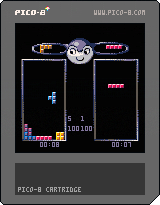
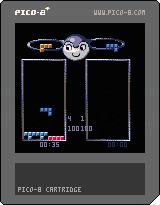
fix: preview offsets line up with board now

Changed region(s): [[0.1562, 0.1463, 0.875, 0.7317], [0.125, 0.5854, 0.4062, 0.7024], [0.25, 0.439, 0.375, 0.5854]]

diff --git a/release/tegim.js b/release/tegim.js
@@ -68,25 +68,25 @@ var _cartdat=[
 0,0,0,0,0,0,0,0,0,0,0,0,0,0,0,0,0,16,0,0,0,0,0,0,0,0,0,0,0,0,0,0,0,0,0,0,0,0,0,0,0,0,0,0,0,0,0,0,0,0,0,0,0,0,0,0,0,0,0,0,0,0,0,0,0,0,0,0,0,0,0,0,0,0,0,0,0,0,0,0,0,0,0,0,0,16,0,0,0,0,0,0,0,0,0,0,0,0,0,0,0,0,0,0,0,0,0,0,0,0,0,0,0,0,0,0,0,0,0,0,0,0,0,0,0,0,0,0,0,0,0,0,0,0,0,0,0,0,0,0,0,0,0,0,0,0,0,0,0,0,0,0,0,16,0,0,0,0,0,0,0,0,0,0,0,0,0,0,0,0,0,0,0,0,0,0,0,0,0,0,0,0,0,0,0,0,0,0,0,0,0,0,0,0,0,0,0,0,0,0,0,0,0,0,0,0,0,0,0,0,0,0,0,0,0,0,0,0,0,0,0,16,0,0,0,0,0,0,0,0,0,0,0,0,0,0,0,0,0,0,0,0,0,0,0,0,0,0,0,0,0,0,0,0,0,0,
 0,0,0,0,0,0,0,0,0,0,0,0,0,0,0,0,0,0,0,0,0,0,0,0,0,0,0,0,0,0,0,0,0,16,0,0,0,0,0,0,0,0,0,0,0,0,0,0,0,0,0,0,0,0,0,0,0,0,0,0,0,0,0,0,0,0,0,0,0,0,0,0,0,0,0,0,0,0,0,0,0,0,0,0,0,0,0,0,0,0,0,0,0,0,0,0,0,0,0,0,0,16,0,0,0,0,0,0,0,0,0,0,0,0,0,0,0,0,0,0,0,0,0,0,0,0,0,0,0,0,0,0,0,0,0,0,0,0,0,0,0,0,0,0,0,0,0,0,0,0,0,0,0,0,0,0,0,0,0,0,0,0,0,0,0,0,0,0,0,16,0,0,0,0,0,0,0,0,0,0,0,0,0,0,0,0,0,0,0,0,0,0,0,0,0,0,0,0,0,0,0,0,0,0,0,0,0,0,0,0,0,0,0,0,0,0,0,0,0,0,0,0,0,0,0,0,0,0,0,0,0,0,0,0,0,0,0,16,0,0,0,0,0,0,0,0,0,0,0,0,0,0,0,0,0,0,
 0,0,0,0,0,0,0,0,0,0,0,0,0,0,0,0,0,0,0,0,0,0,0,0,0,0,0,0,0,0,0,0,0,0,0,0,0,0,0,0,0,0,0,0,0,0,0,0,0,16,0,0,0,0,0,0,0,0,0,0,0,0,0,0,0,0,0,0,0,0,0,0,0,0,0,0,0,0,0,0,0,0,0,0,0,0,0,0,0,0,0,0,0,0,0,0,0,0,0,0,0,0,0,0,0,0,0,0,0,0,0,0,0,0,0,0,0,16,0,0,0,0,0,0,0,0,0,0,0,0,0,0,0,0,0,0,0,0,0,0,0,0,0,0,0,0,0,0,0,0,0,0,0,0,0,0,0,0,0,0,0,0,0,0,0,0,0,0,0,0,0,0,0,0,0,0,0,0,0,0,0,0,0,0,0,16,0,0,0,0,0,0,0,0,0,0,0,0,0,0,0,0,0,0,0,0,0,0,0,0,0,0,0,0,0,0,0,0,0,0,0,0,0,0,0,0,0,0,0,0,0,0,0,0,0,0,0,0,0,0,0,0,0,0,0,0,0,0,0,0,0,0,0,16,0,0,
-0,112,120,97,74,225,18,38,103,191,194,253,103,191,194,241,47,16,237,158,29,53,69,117,192,5,43,93,16,93,255,8,215,7,233,241,121,22,212,117,245,10,143,208,71,241,109,69,24,167,177,53,194,243,223,96,226,164,179,238,105,155,179,142,50,193,78,116,82,80,60,194,204,64,31,61,195,202,76,49,180,144,101,58,2,91,225,76,184,37,21,82,118,89,17,73,7,188,133,25,194,160,208,10,169,172,100,134,98,96,99,227,53,146,168,113,209,101,94,58,205,17,85,37,16,220,20,153,181,147,164,240,82,36,16,46,5,241,255,255,25,219,167,138,68,201,241,24,162,228,71,37,77,158,64,148,252,71,231,66,129,240,41,136,255,255,79,81,242,163,85,74,143,28,57,10,47,37,74,233,12,149,146,4,213,37,74,126,40,136,255,255,255,72,165,235,29,244,219,255,73,165,183,201,26,129,103,9,83,169,244,203,250,80,16,191,35,29,241,72,165,191,11,146,226,183,180,172,84,250,33,77,46,169,244,91,102,85,214,252,175,106,121,68,229,143,17,25,243,127,250,237,21,8,255,255,
-255,255,47,165,251,99,65,126,255,20,149,63,51,81,249,255,255,33,0,255,71,49,87,233,186,245,136,21,198,170,177,199,216,88,161,132,112,48,72,200,162,233,230,234,177,222,243,71,156,40,7,237,4,155,3,101,51,185,56,87,70,198,19,14,8,182,38,22,146,112,167,55,92,81,119,239,160,193,230,183,235,194,149,114,112,69,103,96,162,170,210,200,24,193,66,41,64,210,12,101,121,130,62,1,62,48,127,92,91,166,149,171,109,177,48,145,52,123,186,4,75,226,65,228,20,142,104,163,109,211,250,190,161,149,21,101,242,255,63,226,13,113,114,118,179,225,134,177,102,130,166,109,226,149,108,234,33,178,149,72,156,96,97,34,150,53,236,55,100,63,181,3,226,169,72,220,244,45,38,34,245,112,233,7,55,73,154,46,73,7,155,79,248,80,128,156,59,3,77,30,109,28,90,236,200,136,159,238,146,17,183,140,130,128,121,154,170,137,150,229,195,239,169,141,176,239,229,195,223,120,39,77,158,98,103,39,31,217,41,135,202,66,228,84,203,252,220,168,210,84,131,252,146,60,119,89,
-214,99,51,59,131,162,231,151,98,120,213,215,209,198,62,16,63,255,83,20,89,52,32,60,254,159,67,81,63,160,213,94,237,241,250,200,45,242,241,237,218,112,66,58,170,95,24,241,81,90,141,140,45,25,166,84,169,168,11,65,172,177,137,38,173,237,231,74,233,138,133,222,241,75,195,108,35,76,6,60,191,129,46,115,71,232,185,225,192,149,105,55,156,205,12,8,89,102,193,214,149,38,88,243,94,190,211,105,219,71,89,252,83,98,88,217,168,182,86,130,161,126,65,185,99,243,202,65,45,251,84,207,16,61,196,106,95,62,134,51,70,243,89,77,123,200,5,15,151,177,114,123,108,93,212,162,252,16,68,153,229,7,33,53,95,81,81,242,16,24,238,178,249,70,125,112,57,148,30,103,36,61,254,255,255,255,51,144,30,207,165,179,210,227,208,78,236,54,6,166,102,3,37,132,157,205,165,221,240,224,157,178,121,130,185,120,60,75,15,141,186,221,197,122,242,216,106,125,52,216,40,171,99,3,157,192,100,179,213,99,144,8,42,198,219,100,123,161,43,171,48,45,162,188,155,104,
-228,176,166,151,150,146,249,170,235,102,170,98,55,116,70,83,44,37,113,72,87,2,3,35,205,86,171,27,15,79,109,142,76,136,9,180,237,196,120,57,83,110,46,45,16,72,152,154,6,234,132,135,149,66,226,166,25,129,164,16,70,10,211,10,160,144,112,5,90,45,145,244,191,36,68,177,79,80,188,94,170,52,221,200,88,44,51,166,101,223,162,88,191,97,51,95,21,9,135,33,138,162,61,55,40,150,167,147,215,112,155,100,184,53,238,79,190,11,255,127,142,5,122,116,67,67,43,5,73,134,237,171,68,132,87,152,203,250,113,198,96,5,67,161,115,197,224,80,145,196,139,69,184,28,44,52,231,22,209,184,150,232,226,82,58,51,20,170,4,174,237,169,220,237,181,150,62,194,210,243,129,76,248,127,235,18,229,242,226,255,255,138,144,95,51,138,195,242,226,255,127,9,135,127,242,229,159,192,248,255,67,248,252,255,35,48,254,255,151,84,151,84,77,115,0,129,11,204,201,211,122,174,244,196,194,132,103,76,41,237,58,58,60,57,50,202,245,33,186,142,50,210,39,180,39,36,
-105,34,23,142,106,77,48,223,74,176,138,15,229,70,184,71,185,97,35,35,45,126,134,87,68,182,139,167,151,133,198,163,22,84,29,91,44,9,133,167,238,84,66,49,39,64,69,220,141,86,57,54,102,124,31,144,14,20,14,46,132,195,127,222,224,251,208,111,248,244,197,183,107,251,144,111,168,98,248,197,31,226,32,29,177,116,110,25,72,196,255,40,152,119,72,97,252,71,146,40,180,67,155,97,78,159,77,198,87,80,123,110,238,220,41,83,75,234,54,81,20,141,236,13,203,119,164,179,167,152,8,161,195,63,75,17,98,16,221,136,19,169,196,171,16,180,54,56,187,51,23,233,185,203,246,225,34,241,193,121,248,15,214,14,127,4,39,22,18,46,13,23,74,4,173,13,133,147,77,115,133,7,150,198,84,194,49,215,166,43,89,16,168,116,172,70,185,102,248,129,31,161,43,54,82,16,43,39,36,4,149,198,143,90,105,120,171,87,26,255,127,105,134,42,141,187,40,148,198,217,205,33,175,248,244,175,181,206,110,112,85,0,222,1,153,7,224,42,100,71,43,81,57,124,62,80,
-14,63,186,228,110,221,128,78,55,220,26,235,39,169,136,143,162,197,255,255,207,164,242,214,82,171,100,47,157,190,121,54,21,113,125,144,79,44,48,61,69,239,15,129,124,192,167,136,170,215,128,172,63,73,69,252,152,82,49,84,188,174,70,151,22,149,100,36,240,63,71,146,107,192,254,144,64,56,228,176,5,130,171,234,16,85,156,116,21,124,197,79,13,242,255,255,255,255,191,145,86,252,255,69,153,226,21,205,191,48,93,80,79,74,82,58,14,116,194,47,52,24,91,91,19,64,152,208,223,199,136,34,203,17,77,82,244,1,120,138,203,53,58,149,90,225,17,134,144,10,127,76,161,76,169,42,30,181,40,89,241,199,86,18,4,186,98,227,87,133,1,148,134,211,16,5,186,6,59,74,204,68,157,118,168,37,209,0,30,13,200,110,37,164,241,216,79,228,247,216,225,66,251,35,198,162,176,32,247,193,236,152,134,176,218,163,98,120,107,197,240,159,155,203,154,68,62,148,220,127,116,235,229,146,137,86,167,30,10,4,25,182,136,71,199,32,222,191,92,252,163,120,137,44,27,142,
-30,33,138,198,163,227,53,61,138,243,171,106,56,122,129,40,186,32,186,7,10,134,143,153,28,191,229,28,232,39,209,196,186,225,18,27,93,82,136,224,22,163,210,158,161,160,150,168,199,246,13,193,21,162,97,130,254,2,54,193,186,95,171,43,65,126,17,101,136,94,225,230,29,26,66,90,18,87,44,9,22,184,113,212,77,248,24,78,177,252,232,135,8,27,233,135,255,255,33,114,127,51,246,248,237,180,201,249,48,12,138,52,108,147,69,70,25,159,47,47,194,145,112,154,238,146,102,237,142,36,211,136,143,152,120,215,139,36,138,108,175,161,67,232,95,96,56,81,25,67,26,98,173,113,248,87,109,188,182,213,27,255,37,44,170,56,126,228,245,200,13,71,116,138,227,19,150,191,36,209,77,225,226,236,119,21,209,9,47,228,19,9,189,98,12,49,136,57,135,60,156,68,94,69,97,241,115,200,208,9,163,246,74,233,213,169,214,49,21,8,54,164,86,163,125,207,24,200,4,251,28,221,36,251,3,5,116,132,24,22,131,195,33,198,168,25,14,199,106,6,27,86,81,14,17,132,
-21,149,236,17,28,161,18,46,102,18,63,154,25,0,15,226,144,241,186,226,128,17,185,110,149,255,11,118,196,15,253,157,5,220,34,208,249,240,22,22,142,67,86,214,53,122,252,208,41,155,147,12,154,105,113,69,80,175,172,147,53,83,24,145,43,255,238,80,43,255,162,174,153,211,31,195,7,131,98,1,152,68,245,181,105,132,148,157,7,194,85,185,253,135,239,200,31,68,15,95,35,144,163,171,176,49,187,51,57,39,22,106,139,131,170,165,91,152,111,72,64,188,139,166,186,65,162,127,40,35,94,53,241,107,97,98,115,73,112,255,188,228,140,82,215,75,129,252,88,91,200,66,26,34,143,238,167,123,5,124,121,150,212,254,143,164,249,113,140,160,136,232,63,78,57,104,102,98,65,86,220,195,101,79,65,229,37,9,1,38,9,46,2,0,39,255,111,169,242,178,191,168,86,177,152,249,49,38,200,7,78,225,255,5,244,228,149,113,23,54,133,63,182,138,147,37,144,9,167,220,138,166,186,117,32,107,130,8,143,243,149,45,70,17,96,133,115,170,100,77,242,141,76,146,3,121,
-224,112,156,234,31,187,205,70,81,37,67,190,18,12,167,126,196,205,114,225,229,169,242,2,231,248,89,166,34,227,149,93,167,238,232,180,164,250,127,147,86,185,1,173,156,57,160,149,143,209,73,132,207,171,104,45,26,30,53,39,253,246,147,10,203,77,147,229,127,157,191,158,87,195,111,247,53,65,52,160,208,30,83,9,174,87,85,254,31,174,149,27,243,202,255,154,223,211,73,86,68,168,48,126,74,185,23,63,76,176,93,12,76,136,169,122,252,97,17,114,40,144,111,38,105,214,231,197,195,144,80,156,14,149,15,255,255,178,4,249,80,127,28,188,60,126,72,160,79,126,61,194,252,20,183,63,21,24,73,238,136,217,12,110,65,52,242,39,167,247,130,220,30,107,238,176,215,188,40,122,37,209,63,60,35,146,63,191,196,196,136,70,80,242,54,10,180,77,151,214,228,6,135,84,226,217,6,139,51,193,172,82,217,13,209,41,80,63,142,82,210,18,90,10,181,204,212,243,43,49,255,106,60,57,135,83,69,245,251,79,206,52,150,151,40,37,66,149,159,35,249,58,57,178,120,105,
-255,28,21,53,9,249,191,66,38,82,33,81,216,203,152,195,184,2,227,143,84,216,14,0,145,238,78,12,151,3,23,36,176,27,166,236,89,226,251,145,190,255,163,100,78,129,55,169,127,98,115,248,195,203,225,114,86,57,6,84,225,211,89,28,226,55,113,168,4,207,170,132,31,227,42,225,79,162,37,254,140,107,137,63,141,226,248,83,231,146,227,79,37,19,126,173,42,147,63,87,168,137,95,210,228,87,38,115,254,204,170,137,95,23,168,161,95,18,230,87,215,169,166,63,157,108,250,149,116,138,232,151,214,249,85,40,167,95,145,192,250,85,136,162,127,170,232,95,32,139,254,37,98,236,87,160,100,126,21,165,2,252,149,72,153,95,50,225,159,158,252,37,180,254,5,89,160,160,254,223,69,193,161,230,81,70,255,87,20,116,71,30,193,243,191,137,240,248,211,84,250,243,87,212,132,58,245,79,38,101,254,149,216,87,30,9,205,40,16,209,255,84,227,175,160,208,209,191,58,81,254,171,16,191,255,10,145,252,43,202,52,247,175,76,230,253,11,69,202,191,66,178,254,10,59,209,
-250,47,17,242,63,133,207,191,78,46,255,146,41,4,188,240,161,185,16,159,159,147,116,196,207,205,96,163,15,216,121,224,134,137,249,133,141,173,130,205,2,76,149,52,43,85,86,193,75,90,85,108,175,175,183,212,108,4,86,103,116,63,14,170,58,172,118,13,171,49,98,127,184,197,27,234,31,229,92,125,15,95,138,155,198,197,23,85,19,134,7,195,12,107,145,85,89,27,213,243,109,50,32,72,144,117,117,146,12,22,71,229,150,72,179,188,233,162,5,64,22,39,168,37,85,141,159,115,67,145,4,185,113,164,52,234,149,247,101,94,201,240,255,17,225,181,255,13,33,228,49,39,218,148,137,13,169,149,149,253,122,190,208,55,125,70,39,40,213,25,121,199,252,231,15,146,139,127,190,73,162,137,160,51,156,239,163,254,200,189,225,55,237,33,17,199,249,35,203,126,131,237,153,120,35,44,156,208,203,201,214,1,55,108,37,220,74,154,229,205,228,24,191,161,7,41,205,223,165,106,97,96,101,101,35,84,158,82,54,207,136,182,248,11,7,232,188,0,37,196,169,37,44,20,132,0,
-226,49,182,200,144,0,62,236,34,120,254,3,241,83,194,149,9,225,243,255,191,216,114,204,125,96,107,18,134,102,30,52,187,6,133,81,85,206,111,161,126,234,148,95,202,239,175,42,155,171,192,162,60,58,252,155,247,43,104,148,255,86,245,2,131,116,83,186,248,161,202,179,33,28,6,20,8,210,194,82,150,206,93,72,2,245,127,200,16,202,223,31,122,222,142,102,20,163,182,66,148,112,115,79,178,18,17,101,161,103,118,156,187,5,245,231,180,9,232,232,124,69,49,111,137,106,133,41,197,255,71,39,48,49,95,146,140,138,206,63,242,145,85,37,77,254,67,118,131,184,18,116,242,1,199,167,140,167,132,100,8,67,237,69,222,30,241,190,82,50,54,8,230,26,86,84,184,99,174,88,218,155,87,210,138,84,22,206,24,91,219,138,22,147,100,54,155,211,121,135,226,23,54,42,43,14,12,205,184,100,79,179,89,172,41,73,52,211,15,133,48,237,77,213,148,129,166,177,224,128,247,104,36,28,126,227,175,64,243,17,1,90,148,76,121,143,119,200,99,56,88,22,191,162,204,89,
-66,168,77,100,229,129,41,169,132,173,110,75,181,76,13,53,203,172,44,16,14,136,65,20,253,217,219,9,221,36,18,183,171,68,184,18,53,42,228,81,148,180,158,20,169,57,37,132,148,3,101,69,17,48,201,93,68,90,166,103,204,72,229,48,36,19,149,99,77,216,16,237,194,37,146,136,3,139,20,157,100,201,222,243,207,156,229,31,52,38,114,180,165,144,60,149,45,86,122,71,237,138,139,203,81,4,119,168,182,6,112,231,149,19,47,139,44,117,75,157,153,198,157,0,107,37,119,100,222,2,252,244,89,150,238,211,197,35,138,56,115,254,135,12,202,133,197,232,193,7,245,23,196,203,65,85,231,47,116,159,75,76,252,210,37,39,80,135,23,60,132,161,46,252,191,88,68,252,191,133,255,227,40,241,255,50,119,248,203,205,233,171,243,113,190,9,23,102,169,215,150,58,233,175,249,171,199,78,115,42,206,79,39,107,51,12,151,14,66,31,133,104,53,232,18,133,134,60,31,115,6,130,16,4,85,53,17,70,251,145,172,195,66,89,197,82,230,37,227,241,91,205,43,104,8,176,
-156,44,16,152,87,240,126,128,69,72,42,129,130,240,168,203,237,76,134,78,113,61,58,209,49,51,175,139,148,20,201,35,157,75,244,188,114,5,73,23,81,193,81,219,107,140,63,130,225,100,60,243,219,125,74,98,232,74,44,87,254,255,64,17,245,71,213,252,68,42,243,255,255,255,255,255,255,255,255,203,71,226,20,103,10,39,116,137,1,203,252,192,120,117,179,168,250,75,64,231,255,255,113,138,248,255,127,250,170,71,40,171,131,7,208,156,189,228,124,68,85,8,54,226,255,41,216,182,174,40,82,241,138,120,188,47,217,158,202,219,67,91,244,140,28,53,237,24,7,44,156,129,83,233,94,72,219,61,56,41,127,21,67,202,189,20,230,201,47,78,80,100,8,245,11,34,212,163,246,37,196,254,213,194,6,189,76,247,78,184,177,161,197,254,255,255,255,255,255,255,255,255,255,255,255,43,197,186,208,171,158,40,230,212,85,109,231,43,184,167,188,42,235,31,94,174,87,172,93,117,173,43,168,215,254,255,255,255,164,21,226,142,119,163,219,89,42,99,115,145,181,161,159,249,246,188,
-24,187,168,248,254,13,142,96,168,249,167,141,199,152,230,159,208,248,133,210,233,17,26,255,167,51,254,179,102,89,243,255,193,163,22,237,243,255,255,151,69,168,86,40,64,139,178,233,135,52,58,70,177,10,69,26,253,71,183,37,36,254,67,33,253,255,15,21,241,63,114,228,255,35,212,78,89,243,95,58,234,63,85,195,127,234,244,183,12,161,10,253,176,246,13,154,239,50,191,145,135,80,195,253,208,79,255,169,61,110,160,67,127,172,61,208,204,107,143,255,228,37,244,69,129,110,231,136,112,87,179,60,207,169,36,11,205,64,52,152,119,213,82,214,245,89,46,18,34,252,179,215,133,233,104,144,53,193,124,20,103,66,48,200,26,110,113,120,74,239,143,73,195,255,255,255,255,255,21,99,135,174,160,0,63,200,191,29,0,72,254,255,128,195,240,202,252,135,57,217,167,51,158,65,60,13,181,254,131,136,229,81,212,204,203,46,8,85,8,106,65,93,233,241,255,255,175,1,137,22,52,110,150,64,127,78,240,103,169,79,126,239,75,36,175,139,148,95,178,107,23,168,238,41,150,255,
-255,197,189,230,83,153,145,220,175,14,250,131,232,228,255,63,152,90,201,70,147,36,92,239,195,184,18,160,146,113,255,7,17,236,144,115,21,45,255,255,255,214,69,255,161,96,254,255,94,16,191,200,18,137,85,229,29,41,250,79,234,252,255,35,118,254,200,157,79,210,254,130,146,246,83,203,253,255,127,170,177,255,32,177,242,3,72,211,163,196,255,159,208,29,126,170,56,203,187,19,252,202,79,84,11,143,220,248,255,159,80,140,110,185,241,19,35,197,127,234,187,255,88,179,38,173,183,46,238,110,55,188,193,108,152,216,240,226,105,241,137,169,119,164,146,8,39,170,139,211,31,9,175,183,103,109,67,83,255,33,197,115,77,69,30,136,46,192,240,37,182,111,73,104,128,253,18,153,127,197,197,255,255,18,22,255,39,79,127,42,243,255,63,228,205,31,93,195,128,199,15,171,161,206,213,52,172,130,119,138,91,177,237,183,153,57,155,41,207,205,211,227,68,9,244,223,98,241,255,255,137,225,255,1,187,241,255,255,255,255,255,255,255,255,255,255,81,159,255,127,105,255,40,251,139,218,
-198,255,135,30,156,49,213,137,215,211,47,132,117,127,80,157,112,181,31,101,230,50,125,189,73,214,54,89,40,243,161,185,43,46,224,69,102,224,44,223,80,58,144,41,4,206,40,132,191,3,19,83,23,72,132,238,138,136,83,128,78,100,136,118,213,15,52,41,147,151,143,251,47,8,120,38,31,68,208,79,84,28,195,229,244,7,218,10,77,37,209,89,150,180,154,46,0,117,223,214,18,247,171,215,35,88,53,126,149,244,237,254,138,141,204,130,15,11,111,185,71,65,252,255,95,250,119,63,4,200,127,10,157,159,112,241,62,33,244,16,129,58,164,251,68,211,15,41,244,255,191,51,33,243,127,19,19,74,232,255,41,32,254,175,209,31,255,127,43,161,255,255,177,171,132,46,251,63,138,209,154,251,154,13,224,124,153,22,201,167,148,51,169,148,255,110,217,115,211,254,239,226,168,208,230,170,70,254,7,130,238,161,204,119,14,16,229,57,83,248,29,255,144,37,61,18,251,42,48,34,158,26,251,182,47,64,151,63,81,36,179,133,36,241,143,70,249,15,236,61,175,72,249,255,31,145,
-74,249,127,144,142,249,100,202,151,105,166,255,64,234,243,106,166,159,8,120,30,205,116,141,104,166,255,182,175,102,186,0,133,253,4,211,247,147,192,194,63,190,10,71,3,88,225,255,25,16,86,184,213,229,29,200,203,155,244,194,159,0,245,194,127,232,91,6,2,247,255,17,40,220,255,152,128,229,135,81,145,252,255,208,8,82,202,191,149,240,84,4,129,76,212,78,74,239,209,182,255,133,101,232,86,16,159,160,248,255,44,12,74,250,3,77,94,134,89,231,92,56,7,173,216,45,162,255,75,100,255,255,215,105,108,109,227,255,250,64,89,253,15,87,185,191,238,191,228,252,129,59,225,167,82,248,24,177,252,149,96,167,252,186,145,58,252,18,242,132,127,67,183,11,19,27,214,87,10,137,241,228,1,136,134,127,2,226,191,87,4,196,143,60,150,31,255,127,230,242,227,7,141,136,83,190,252,127,198,228,203,161,201,42,217,42,120,52,157,205,107,161,255,202,187,69,225,88,199,112,156,211,17,172,22,94,213,122,8,168,177,46,67,103,192,3,180,222,197,76,241,148,110,70,99,199,
-141,201,164,237,247,0,236,108,14,45,37,102,7,51,157,241,255,171,202,137,160,72,84,198,79,72,58,175,202,56,172,167,51,254,186,108,223,42,0,0,0,0,0,0,0,0,0,0,0,0,0,0,0,0,0,0,0,0,0,0,0,0,0,0,0,0,0,0,0,0,0,0,0,0,0,0,0,0,0,0,0,0,0,0,0,0,0,0,0,0,0,0,0,0,0,0,0,0,0,0,0,0,0,0,0,0,0,0,0,0,0,0,0,0,0,0,0,0,0,0,0,0,0,0,0,0,0,0,0,0,0,0,0,0,0,0,0,0,0,0,0,0,0,0,0,0,0,0,0,0,0,0,0,0,0,0,0,0,0,0,0,0,0,0,0,0,0,0,0,0,0,0,0,0,0,0,0,0,0,0,0,0,0,0,0,0,0,0,0,0,0,0,0,0,0,0,0,0,0,0,0,0,0,0,0,0,0,0,0,0,0,0,0,0,0,0,0,0,0,0,0,0,0,0,0,0,0,0,0,0,0,0,0,0,0,0,0,0,0,0,0,0,0,0,0,0,0,0,0,0,0,0,0,0,0,0,
+0,112,120,97,74,179,18,20,103,191,194,253,103,191,194,241,47,16,237,158,29,53,69,117,192,5,43,93,16,93,255,8,215,7,233,241,121,22,212,117,245,10,143,208,71,241,109,69,24,167,177,53,194,243,223,96,226,164,179,238,105,155,179,142,50,193,78,116,82,80,60,194,204,64,31,61,195,202,76,49,180,144,101,58,2,91,225,76,184,37,21,82,118,89,17,73,7,188,133,25,194,160,208,10,169,172,100,134,98,96,99,227,53,146,168,113,209,101,94,58,205,17,85,37,16,220,20,153,181,147,164,240,82,36,16,46,5,241,255,255,25,219,167,138,68,201,241,24,162,228,71,37,77,158,64,148,252,71,231,66,129,240,41,136,255,255,79,81,242,163,85,74,143,28,57,10,47,37,74,233,12,149,146,4,213,37,74,126,40,136,255,255,255,72,165,235,29,244,219,255,73,165,183,201,26,129,103,9,83,169,244,203,250,80,16,191,35,29,241,72,165,191,11,146,226,183,180,172,84,250,33,77,46,169,244,91,102,85,214,252,175,106,121,68,229,143,17,25,243,127,250,237,21,8,255,255,
+255,255,47,165,251,99,65,126,255,20,149,63,51,81,249,255,255,33,0,255,71,49,87,233,186,245,136,21,198,170,177,199,216,88,161,132,112,48,72,200,162,233,230,234,177,222,243,71,156,40,7,237,4,155,3,101,51,185,56,87,70,198,19,14,8,182,38,22,146,112,167,55,92,81,119,239,160,193,230,183,235,194,149,114,112,69,103,96,162,170,210,200,24,193,66,41,64,210,12,101,121,130,62,1,62,48,127,92,91,166,149,171,109,177,48,145,52,123,186,4,75,226,65,228,20,142,104,163,109,211,250,190,161,149,21,101,242,255,63,226,13,113,114,118,179,225,134,177,172,21,12,69,246,125,139,46,50,191,134,130,174,110,242,157,116,43,45,103,162,33,193,195,222,156,186,134,250,226,156,9,163,182,170,239,44,54,100,196,79,119,201,136,91,37,65,159,60,77,213,68,195,242,225,247,210,78,184,49,33,31,254,198,27,105,242,20,27,79,145,207,76,149,59,101,161,84,170,101,126,110,84,105,170,65,126,73,158,187,44,235,177,157,161,65,209,243,95,58,161,209,82,45,235,176,49,144,
+233,163,79,82,60,234,235,232,35,31,168,163,255,41,138,172,153,80,38,255,207,46,90,232,20,199,47,165,57,159,195,45,242,241,237,226,112,67,58,106,96,98,196,71,105,85,111,45,25,166,84,169,168,11,65,172,173,137,38,173,237,231,74,233,138,133,222,241,75,195,108,35,76,6,60,191,129,46,115,71,232,185,225,192,149,105,55,156,205,12,8,89,102,193,214,149,38,88,243,94,190,211,105,219,71,89,252,147,106,88,217,168,182,86,130,161,126,65,185,99,243,202,73,45,251,84,207,16,61,196,106,95,62,134,51,70,243,89,77,123,200,5,15,151,177,180,123,108,93,212,162,252,16,68,153,229,7,33,53,95,81,81,242,16,24,238,178,205,70,125,112,56,148,30,103,36,61,254,255,255,255,51,144,30,207,165,133,244,56,180,19,179,137,126,105,53,80,66,152,153,28,154,13,15,158,41,155,39,88,139,183,179,244,208,168,155,29,172,23,143,173,198,55,131,141,178,58,54,208,9,76,38,91,61,6,137,160,98,187,77,166,23,186,178,10,211,34,202,187,137,70,47,107,121,105,41,
+89,175,186,110,166,42,102,67,103,52,197,82,18,135,116,37,48,48,210,108,181,186,241,240,212,228,200,132,152,64,219,78,108,151,51,229,228,210,2,129,132,201,109,160,78,120,88,41,36,110,154,17,72,10,97,164,48,173,0,10,9,87,160,213,18,137,251,75,66,20,251,4,197,235,165,74,211,141,140,197,50,99,90,246,45,138,241,19,22,243,81,145,112,24,162,40,218,115,131,98,120,57,121,13,183,73,134,91,227,254,228,187,240,255,231,88,160,71,55,52,180,82,144,100,216,188,74,68,120,132,185,172,31,103,12,86,180,20,58,87,12,14,21,73,188,88,132,219,193,66,115,110,17,141,107,137,46,46,165,51,67,161,74,224,218,158,202,221,94,107,233,27,44,125,71,32,19,254,223,186,68,185,188,248,255,191,34,228,215,140,226,176,188,248,255,95,194,225,159,124,249,39,48,254,255,16,62,255,255,8,140,255,255,37,213,37,85,211,28,64,224,2,115,242,180,158,43,61,177,48,225,25,83,74,187,142,14,79,142,140,114,125,136,174,163,140,244,9,237,9,73,154,200,133,163,90,
+19,204,183,18,172,226,67,185,17,238,97,112,216,200,72,203,167,225,21,145,237,226,233,101,161,241,168,5,85,199,22,75,66,225,169,59,149,80,204,9,80,17,119,163,85,142,141,25,223,135,180,3,133,131,11,225,240,159,55,248,62,120,28,62,125,241,237,218,62,244,25,170,24,126,241,135,56,72,71,44,157,91,6,18,241,63,10,230,29,82,24,255,145,36,10,237,208,102,152,211,103,147,241,21,212,158,155,59,119,202,212,146,186,77,20,69,35,123,195,242,29,233,236,41,38,66,232,240,207,82,132,24,132,63,226,68,42,241,42,4,173,13,206,238,204,69,122,238,178,125,192,64,156,112,30,126,179,118,248,35,56,177,144,112,105,184,80,34,104,109,40,156,196,195,176,161,45,149,112,172,165,229,200,21,65,160,210,177,26,229,154,225,7,126,132,174,216,72,65,172,156,144,16,84,26,63,90,165,225,173,90,105,252,255,165,25,170,52,238,162,80,26,103,55,135,188,226,211,191,214,58,187,193,85,1,120,135,41,156,116,59,90,137,202,225,243,129,114,248,209,133,119,235,6,132,186,
+225,214,88,63,73,69,124,20,45,254,255,127,38,149,183,150,58,37,123,233,244,205,195,171,136,235,131,124,98,129,233,41,122,127,8,228,131,78,69,84,189,6,100,253,73,42,226,199,148,138,161,226,117,53,186,180,168,36,35,129,255,57,146,92,3,246,135,4,194,33,135,45,16,92,85,135,168,226,164,171,100,44,126,106,144,255,255,255,255,255,141,180,226,255,47,202,20,175,104,254,197,241,130,122,82,146,210,113,160,19,126,177,195,216,218,154,0,194,132,254,62,70,20,89,142,104,146,162,15,192,83,92,174,209,169,212,10,143,48,132,84,248,99,10,101,74,85,241,168,69,201,138,63,182,146,32,208,21,27,191,42,12,160,52,156,134,40,208,53,216,81,98,38,234,180,67,45,137,6,240,104,64,118,43,66,141,199,126,34,191,199,14,23,218,31,49,22,133,5,185,15,102,199,52,132,213,30,21,195,91,43,134,255,220,92,214,36,242,161,228,254,163,91,47,151,76,180,58,245,80,32,200,176,69,60,58,6,241,254,229,226,31,197,75,100,217,112,244,8,81,52,30,29,175,233,81,
+156,95,85,195,209,11,68,209,5,209,61,80,48,124,204,228,248,45,231,64,63,137,38,214,13,151,216,232,146,66,4,183,24,149,246,12,5,181,68,61,182,111,8,174,16,13,19,244,23,176,9,214,253,90,93,9,242,139,40,67,244,10,55,239,208,16,210,146,184,98,73,176,192,141,163,110,194,199,112,138,229,71,63,68,216,72,63,252,255,15,145,251,27,194,199,111,167,77,206,135,97,80,164,97,155,44,50,202,248,124,121,17,142,132,211,116,151,52,107,119,36,153,70,124,196,196,187,94,36,81,100,123,13,29,66,255,2,195,137,202,24,210,16,107,141,195,191,106,227,181,173,222,248,47,97,81,197,241,35,175,71,110,56,162,83,28,159,176,252,37,137,110,10,23,103,191,171,136,78,186,33,159,72,232,21,122,230,80,150,211,58,205,197,207,43,61,45,77,42,16,108,72,249,69,251,158,209,87,26,124,142,110,146,253,190,16,252,49,44,217,134,67,95,81,51,28,142,213,12,54,172,72,28,245,7,139,36,217,35,56,66,37,92,24,36,126,52,43,48,59,132,22,227,117,197,1,
+27,10,220,194,253,23,191,136,31,146,58,3,136,69,32,221,225,45,210,27,135,82,172,107,36,246,161,83,182,38,25,180,210,18,136,160,94,89,39,107,166,48,34,87,254,221,161,86,254,69,93,179,166,63,70,4,6,197,0,38,15,128,126,248,248,130,148,134,7,194,85,1,253,7,233,200,31,232,14,95,35,121,35,171,48,49,59,179,184,38,22,106,139,131,170,161,91,40,110,72,64,188,131,166,186,65,116,127,112,34,94,53,241,107,97,98,114,73,66,255,188,228,140,82,169,75,129,252,88,91,200,66,190,33,143,236,167,123,37,121,17,150,212,254,143,164,249,113,140,160,136,140,63,78,57,104,102,98,65,86,220,187,101,207,53,229,101,3,1,202,8,46,2,230,38,255,111,169,242,210,188,168,86,177,152,249,49,166,246,135,66,225,255,197,240,228,149,113,23,8,133,63,182,138,147,37,52,9,167,220,138,166,186,117,32,235,201,109,46,41,183,179,194,205,44,67,166,112,142,181,244,72,190,153,142,5,200,131,123,227,20,255,216,109,70,138,42,89,242,149,96,56,245,35,110,150,
+11,47,66,149,23,33,199,207,50,21,25,175,236,58,117,71,167,37,213,255,27,174,202,205,100,229,236,153,172,124,212,77,34,124,94,69,107,209,240,168,57,233,183,159,32,88,110,128,44,255,235,252,13,16,104,248,237,190,38,136,22,20,218,99,42,193,245,170,202,255,3,176,114,131,91,249,95,243,123,58,201,138,8,254,197,79,41,247,2,133,9,136,139,161,6,49,39,143,63,116,65,14,5,242,237,36,205,250,188,120,24,228,137,211,161,242,225,255,95,58,32,31,188,143,131,128,199,15,9,244,201,175,71,152,159,226,246,167,2,35,155,29,81,152,193,45,208,69,254,228,192,94,144,219,99,206,29,246,154,23,69,175,36,250,7,92,68,242,231,151,152,24,163,8,74,222,70,129,182,233,212,156,220,224,144,74,60,219,96,114,38,216,85,42,187,33,58,5,211,199,81,74,90,98,72,161,150,153,122,126,37,230,95,141,39,231,144,167,168,126,255,73,142,198,242,18,165,68,168,242,115,36,95,39,71,22,47,237,159,163,162,38,33,255,87,200,68,42,36,10,123,25,115,24,87,96,
+252,145,10,219,65,26,210,225,137,229,114,224,130,4,118,195,148,61,75,32,63,210,247,127,148,204,41,240,38,245,79,108,14,127,120,57,92,206,42,199,128,42,124,58,139,67,244,21,14,149,224,93,149,240,99,93,37,252,73,180,196,159,117,45,241,167,81,28,127,234,92,114,252,169,100,194,175,89,101,242,231,10,53,241,75,154,252,202,100,206,159,89,53,241,107,87,13,253,146,48,191,186,78,53,253,233,100,211,175,164,83,68,191,180,206,175,66,57,253,138,4,214,175,66,20,253,83,69,255,2,89,244,47,17,99,191,2,37,243,171,40,21,224,175,68,202,252,146,9,255,244,228,47,161,245,47,200,2,5,245,255,46,10,178,52,143,50,250,191,162,224,53,242,8,158,255,77,132,199,159,166,210,159,191,162,38,212,169,127,50,41,243,175,4,185,242,72,104,70,129,136,254,167,26,127,5,133,142,254,213,137,242,95,133,248,253,87,136,228,95,81,166,185,127,101,50,239,95,40,82,254,21,146,245,87,216,137,214,127,137,144,255,41,124,254,117,114,249,151,76,33,224,133,15,205,133,
+136,251,156,164,35,126,110,6,27,125,64,195,3,55,76,204,47,108,108,21,108,22,96,170,164,89,169,178,10,71,210,170,98,123,125,189,229,96,35,84,58,227,245,113,112,210,97,181,107,88,141,17,251,195,45,222,80,255,40,231,234,123,248,82,220,52,46,190,168,154,48,60,24,102,88,139,172,202,218,168,158,111,147,1,65,130,172,171,147,100,176,56,42,183,68,154,229,77,23,45,0,178,56,209,43,169,106,252,156,27,138,13,200,13,24,165,81,175,188,47,243,74,134,255,143,8,175,253,111,172,32,143,57,97,165,76,108,72,173,172,236,215,243,133,190,233,51,32,65,169,206,200,59,204,63,127,144,92,252,243,77,18,77,4,157,225,124,31,245,71,238,13,191,249,13,137,33,206,31,89,246,27,85,207,196,27,241,223,132,71,78,182,14,184,97,43,33,81,210,44,111,38,199,136,12,61,144,104,254,46,85,11,3,43,43,27,161,242,148,178,121,70,180,197,95,220,63,231,5,40,33,78,45,97,161,32,4,16,143,177,69,134,4,240,97,23,193,243,31,208,158,18,174,76,8,159,
+255,255,197,150,99,238,67,85,147,48,52,243,160,217,53,40,140,170,114,126,11,245,83,167,252,82,126,127,85,217,92,133,10,229,209,225,223,188,95,209,161,252,183,170,23,234,163,155,210,197,15,85,158,13,225,48,68,64,144,22,150,178,116,238,66,18,168,255,67,134,80,254,254,208,243,118,52,117,24,181,21,162,132,155,100,146,149,136,184,9,61,179,227,220,45,168,63,167,77,192,59,231,43,138,121,75,84,43,76,41,254,63,58,129,137,249,146,100,84,116,254,145,143,172,42,105,242,31,178,27,12,149,160,147,15,220,61,165,54,37,170,42,24,106,47,242,246,136,247,149,98,16,66,48,215,208,159,194,29,115,197,210,222,188,146,86,164,178,112,198,216,218,86,180,152,36,179,217,156,206,59,20,191,64,80,89,113,96,104,198,37,123,154,205,98,77,73,162,153,126,40,132,105,111,170,166,12,52,141,5,7,188,71,35,225,240,27,127,5,154,143,241,207,162,100,202,123,188,67,30,195,193,178,248,21,101,206,18,66,109,34,43,15,76,73,37,108,117,91,170,101,106,168,89,102,101,
+129,112,96,9,162,232,207,222,78,232,38,145,184,93,37,194,149,168,81,33,143,162,164,245,164,72,205,41,33,164,28,40,43,74,125,73,238,98,204,50,61,99,68,42,135,33,145,168,28,107,194,134,104,23,46,145,68,192,87,228,226,36,75,246,158,127,230,44,255,160,49,145,163,45,5,217,169,180,176,210,59,106,87,92,92,142,98,178,67,181,53,36,59,175,156,120,233,98,169,91,234,204,52,238,4,86,43,185,35,243,22,178,167,207,178,188,158,46,194,80,4,148,243,63,100,80,46,208,69,15,16,168,191,104,93,14,78,58,127,49,250,92,98,226,151,46,57,129,58,188,224,33,12,117,225,255,197,34,226,255,45,252,31,71,137,255,151,185,195,95,18,78,95,157,143,243,77,184,192,73,189,182,212,73,127,205,95,61,118,154,83,113,126,58,89,155,97,184,116,16,237,40,68,171,65,151,40,52,228,249,152,51,16,132,32,168,170,137,48,218,143,100,29,22,202,42,150,50,47,25,143,223,106,94,65,67,128,229,100,129,192,188,194,241,3,208,65,82,9,20,132,71,93,110,103,50,
+116,138,235,209,137,142,41,120,93,112,164,200,18,233,92,226,225,149,43,64,186,136,243,141,218,94,99,252,17,12,39,181,153,223,238,83,18,67,87,98,185,242,255,7,92,168,63,170,230,39,81,153,255,255,255,255,255,255,255,255,95,62,18,167,56,83,56,161,75,204,87,230,7,152,171,27,63,213,95,166,57,255,255,143,83,196,255,255,211,87,61,66,89,29,132,127,230,236,37,231,35,170,66,176,17,255,79,193,182,117,69,145,138,87,196,227,125,201,246,84,222,30,218,226,97,228,168,105,199,208,95,225,12,64,74,247,66,218,238,193,73,249,171,24,82,238,165,48,79,126,145,127,34,21,168,95,88,160,30,181,47,33,246,175,22,54,232,101,186,119,194,141,13,45,246,255,255,255,255,255,255,255,255,255,255,255,95,41,214,133,94,245,68,49,167,174,106,59,95,193,61,229,85,89,255,128,113,189,98,237,170,107,93,65,189,246,255,255,255,39,173,16,119,188,27,221,206,82,25,155,139,172,13,253,76,172,231,37,215,69,197,247,111,112,4,67,205,63,109,60,198,52,255,132,198,47,
+56,78,143,208,248,63,157,241,159,53,203,154,255,15,240,180,104,159,255,255,191,44,66,181,66,1,90,56,77,63,164,209,49,10,74,40,210,232,63,186,45,33,241,31,10,233,255,127,168,136,255,145,35,255,31,161,118,202,154,255,210,81,255,169,26,254,83,167,191,101,136,73,232,135,181,111,208,124,151,249,141,60,132,26,238,135,126,250,79,237,113,35,26,250,99,237,129,102,94,123,252,39,1,161,47,10,116,59,71,132,187,154,229,121,78,37,89,104,6,162,193,188,171,150,178,174,207,114,145,16,225,159,189,46,76,71,131,172,9,230,163,56,19,130,65,214,112,139,195,83,122,127,76,26,254,255,255,255,255,175,24,59,116,5,5,248,193,242,237,0,64,242,255,7,28,134,87,230,63,152,201,62,157,241,12,226,105,168,245,31,68,44,143,162,102,94,118,65,168,66,80,11,234,74,143,255,255,127,13,72,180,192,110,179,4,250,115,130,63,75,125,242,123,95,34,121,93,164,252,146,93,187,64,117,79,177,252,255,47,238,53,159,202,140,228,126,117,208,31,68,39,255,255,225,209,74,
+54,154,36,225,122,31,198,149,0,149,140,251,63,44,96,135,156,171,104,249,255,255,183,46,250,15,5,243,255,247,130,248,69,150,72,172,42,239,72,209,127,82,231,255,31,177,243,71,238,124,146,246,23,234,179,71,22,253,255,255,31,106,236,63,72,172,252,64,204,244,40,241,255,39,116,135,159,42,206,242,238,4,191,242,19,213,194,35,55,254,255,39,20,163,91,110,252,196,72,241,159,250,238,63,214,172,201,223,173,139,187,219,13,65,48,27,38,54,188,120,90,124,98,234,29,169,36,194,137,234,226,244,71,66,215,237,89,219,208,212,127,72,241,92,83,145,7,162,11,192,122,9,231,91,18,190,95,191,68,230,95,113,241,255,191,132,197,255,201,211,159,202,252,255,15,121,243,71,215,48,224,241,195,106,168,115,53,223,170,0,155,226,86,108,251,109,102,206,102,202,115,243,244,56,81,2,253,183,88,252,255,127,98,248,127,192,110,252,255,255,255,255,255,255,255,255,255,127,212,231,255,95,218,63,202,254,162,182,241,255,225,1,103,124,114,226,245,244,11,173,220,63,16,128,90,237,
+71,153,185,76,95,111,146,181,77,22,202,124,104,238,138,11,8,144,25,56,203,55,148,14,100,10,129,51,10,225,239,192,196,212,5,18,161,187,34,226,20,160,19,25,226,87,245,3,77,202,228,229,227,254,11,235,157,201,7,17,244,19,21,199,112,57,253,129,182,66,83,73,116,150,37,173,166,11,41,221,183,181,68,242,234,245,8,86,141,95,37,112,187,191,98,35,179,40,195,66,80,238,81,16,255,255,23,248,221,15,1,242,159,66,231,39,79,188,79,8,61,68,160,14,233,62,209,244,67,10,253,255,239,76,200,252,223,196,132,18,250,127,10,136,255,107,244,199,255,223,74,232,255,127,236,42,161,203,254,143,98,180,230,190,102,3,220,94,166,69,242,41,229,76,42,229,191,91,246,220,180,255,187,56,42,180,185,170,145,255,161,157,123,192,242,157,3,68,121,206,20,126,199,63,100,73,143,196,190,10,48,136,167,198,190,237,11,208,229,79,20,201,108,65,70,252,163,81,254,3,123,207,43,82,254,255,71,164,82,254,31,164,99,62,153,242,101,154,233,63,144,250,188,154,233,39,
+2,158,71,51,93,35,154,233,191,237,171,153,46,228,96,63,81,243,253,36,176,240,143,175,194,209,0,86,248,127,6,132,21,110,117,121,7,242,242,38,189,240,39,64,189,240,31,250,150,129,192,253,127,4,10,247,63,38,240,247,97,84,36,255,63,52,130,148,242,111,37,60,21,65,32,19,181,147,210,123,180,237,127,97,25,186,21,196,39,40,254,63,11,131,146,254,128,141,151,97,214,57,23,193,65,43,118,139,232,255,18,217,255,255,117,26,91,219,244,191,62,80,86,255,67,74,238,175,251,47,57,127,224,78,248,169,20,62,70,44,127,37,216,41,191,110,164,14,191,132,60,225,223,208,237,2,191,134,245,149,66,98,60,121,0,162,225,159,128,248,239,21,1,241,35,143,229,199,255,159,185,252,248,65,35,226,148,47,255,159,49,249,114,104,178,74,182,10,30,77,103,243,90,232,191,242,110,81,56,214,49,100,230,116,4,171,133,87,181,30,2,106,168,203,208,25,240,0,173,119,81,80,60,165,155,97,215,113,99,50,105,251,61,0,59,155,131,69,137,217,193,76,103,252,255,170,
+114,34,40,18,149,241,19,146,206,171,50,14,235,233,140,191,46,219,183,10,0,0,0,0,0,0,0,0,0,0,0,0,0,0,0,0,0,0,0,0,0,0,0,0,0,0,0,0,0,0,0,0,0,0,0,0,0,0,0,0,0,0,0,0,0,0,0,0,0,0,0,0,0,0,0,0,0,0,0,0,0,0,0,0,0,0,0,0,0,0,0,0,0,0,0,0,0,0,0,0,0,0,0,0,0,0,0,0,0,0,0,0,0,0,0,0,0,0,0,0,0,0,0,0,0,0,0,0,0,0,0,0,0,0,0,0,0,0,0,0,0,0,0,0,0,0,0,0,0,0,0,0,0,0,0,0,0,0,0,0,0,0,0,0,0,0,0,0,0,0,0,0,0,0,0,0,0,0,0,0,0,0,0,0,0,0,0,0,0,0,0,0,0,0,0,0,0,0,0,0,0,0,0,0,0,0,0,0,0,0,0,0,0,0,0,0,0,0,0,0,0,0,0,0,0,0,0,0,0,0,0,0,0,0,0,0,0,0,0,0,0,0,0,0,0,0,0,0,0,0,0,0,0,0,0,0,
 0,0,0,0,0,0,0,0,0,0,0,0,0,0,0,0,0,0,0,0,0,0,0,0,0,0,0,0,0,0,0,0,0,0,0,0,0,0,0,0,0,0,0,0,0,0,0,0,0,0,0,0,0,0,0,0,0,0,0,0,0,0,0,0,0,0,0,0,0,0,0,0,0,0,0,0,0,0,0,0,0,0,0,0,0,0,0,0,0,0,0,0,0,0,0,0,0,0,0,0,0,0,0,0,0,0,0,0,0,0,0,0,0,0,0,0,0,0,0,0,0,0,0,0,0,0,0,0,0,0,0,0,0,0,0,0,0,0,0,0,0,0,0,0,0,0,0,0,0,0,0,0,0,0,0,0,0,0,0,0,0,0,0,0,0,0,0,0,0,0,0,0,0,0,0,0,0,0,0,0,0,0,0,0,0,0,0,0,0,0,0,0,0,0,0,0,0,0,0,0,0,0,0,0,0,0,0,0,0,0,0,0,0,0,0,0,0,0,0,0,0,0,0,0,0,0,0,0,0,0,0,0,0,0,0,0,0,0,0,0,0,0,0,0,0,0,0,0,0,0,0,0,0,0,0,0,
 0,0,0,0,0,0,0,0,0,0,0,0,0,0,0,0,0,0,0,0,0,0,0,0,0,0,0,0,0,0,0,0,0,0,0,0,0,0,0,0,0,0,0,0,0,0,0,0,0,0,0,0,0,0,0,0,0,0,0,0,0,0,0,0,0,0,0,0,0,0,0,0,0,0,0,0,0,0,0,0,0,0,0,0,0,0,0,0,0,0,0,0,0,0,0,0,0,0,0,0,0,0,0,0,0,0,0,0,0,0,0,0,0,0,0,0,0,0,0,0,0,0,0,0,0,0,0,0,0,0,0,0,0,0,0,0,0,0,0,0,0,0,0,0,0,0,0,0,0,0,0,0,0,0,0,0,0,0,0,0,0,0,0,0,0,0,0,0,0,0,0,0,0,0,0,0,0,0,0,0,0,0,0,0,0,0,0,0,0,0,0,0,0,0,0,0,0,0,0,0,0,0,0,0,0,0,0,0,0,0,0,0,0,0,0,0,0,0,0,0,0,0,0,0,0,0,0,0,0,0,0,0,0,0,0,0,0,0,0,0,0,0,0,0,0,0,0,0,0,0,0,0,0,0,0,0,
 0,0,0,0,0,0,0,0,0,0,0,0,0,0,0,0,0,0,0,0,0,0,0,0,0,0,0,0,0,0,0,0,0,0,0,0,0,0,0,0,0,0,0,0,0,0,0,0,0,0,0,0,0,0,0,0,0,0,0,0,0,0,0,0,0,0,0,0,0,0,0,0,0,0,0,0,0,0,0,0,0,0,0,0,0,0,0,0,0,0,0,0,0,0,0,0,0,0,0,0,0,0,0,0,0,0,0,0,0,0,0,0,0,0,0,0,0,0,0,0,0,0,0,0,0,0,0,0,0,0,0,0,0,0,0,0,0,0,0,0,0,0,0,0,0,0,0,0,0,0,0,0,0,0,0,0,0,0,0,0,0,0,0,0,0,0,0,0,0,0,0,0,0,0,0,0,0,0,0,0,0,0,0,0,0,0,0,0,0,0,0,0,0,0,0,0,0,0,0,0,0,0,0,0,0,0,0,0,0,0,0,0,0,0,0,0,0,0,0,0,0,0,0,0,0,0,0,0,0,0,0,0,0,0,0,0,0,0,0,0,0,0,0,0,0,0,0,0,0,0,0,0,0,0,0,0,

diff --git a/release/tegim.html b/release/tegim.html
@@ -980,7 +980,7 @@ canvas{
 
 .p8_start_button{
 	cursor:pointer;
[2 lines of base64/hex data omitted]
 	-repeat center;
 	-webkit-background-size:cover; -moz-background-size:cover; -o-background-size:cover; background-size:cover;
 }
